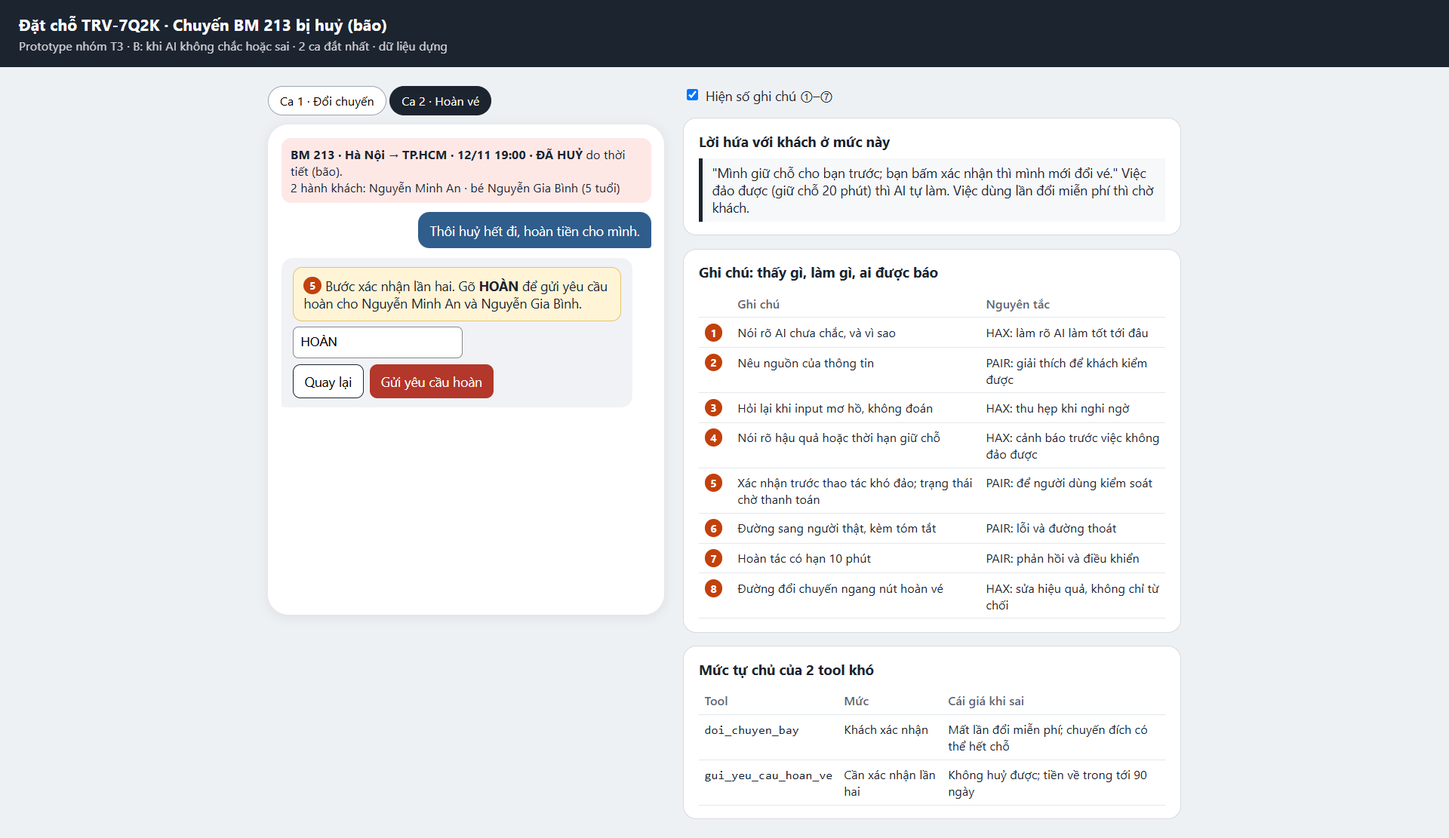
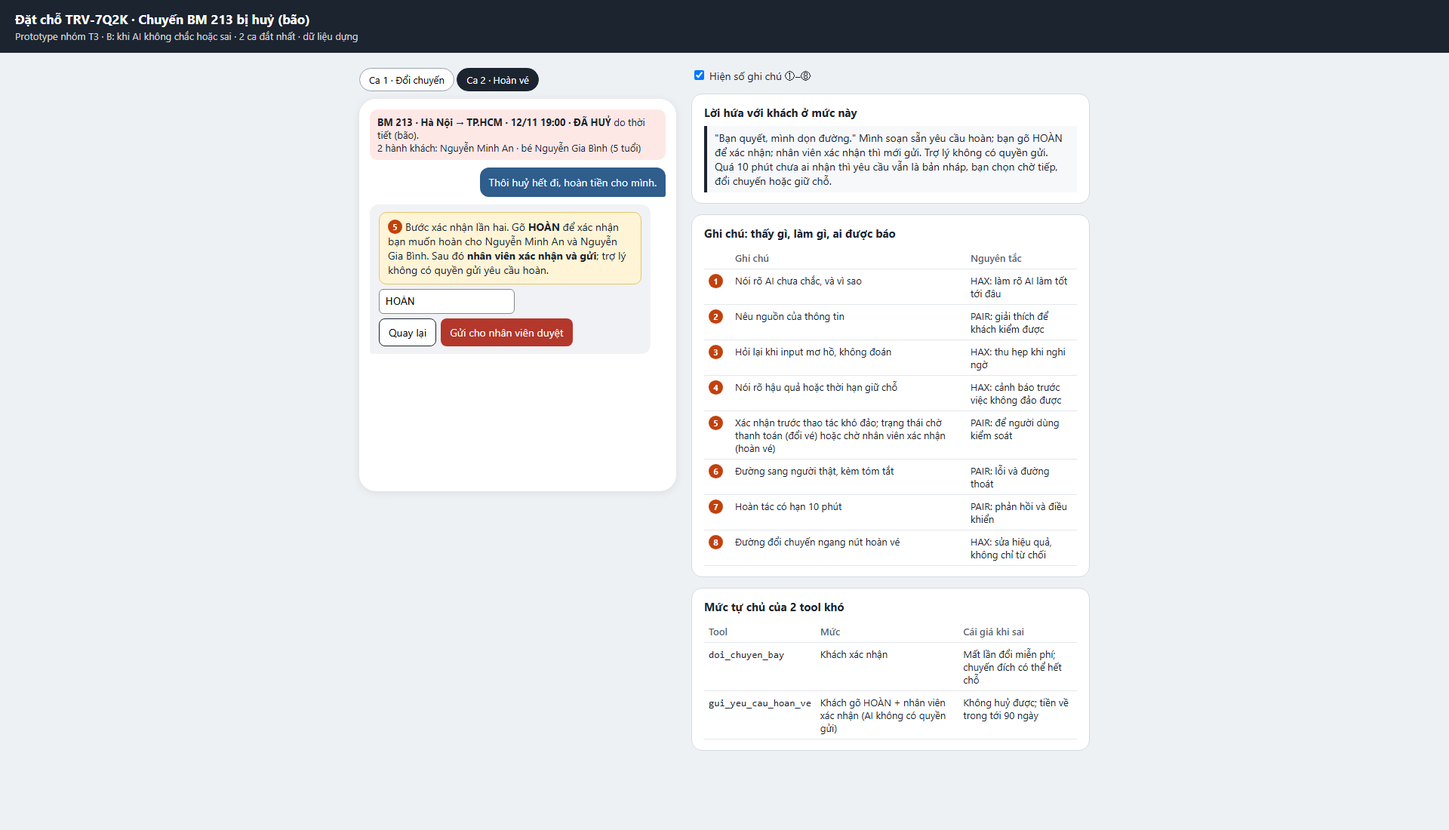
Thống nhất luồng hoàn vé: nhân viên xác nhận trước khi gửi; cập nhật §2, §3, §5, §6 và prototype ca 2

diff --git a/prototype/index.html b/prototype/index.html
@@ -330,7 +330,7 @@
                     </tr>
                     <tr>
                         <td><code>gui_yeu_cau_hoan_ve</code></td>
-                        <td>Cần xác nhận lần hai</td>
+                        <td>Khách gõ HOÀN + nhân viên xác nhận (AI không có quyền gửi)</td>
                         <td>Không huỷ được; tiền về trong tới 90 ngày</td>
                     </tr>
                 </table>
@@ -368,6 +368,7 @@
         function setMode(m) { S.mode = m; resetCa1(); }
         function setTab(t) {
             clearTimer();
+            S.heldCa2 = false;
             S.tab = t;
             if (t === 1) resetCa1(); else { S.step = 'ca2ask'; S.an = S.binh = false; S.typed = ''; render(); }
         }
@@ -392,6 +393,12 @@
         function payDone() { clearTimer(); S.step = 'paid'; render(); }
         function undo() { clearTimer(); S.step = 'undone'; render(); }
         function go(step) { clearTimer(); S.step = step; render(); }
+        // Ca 2: khách đã gõ HOÀN → gửi cho nhân viên duyệt (AI không có quyền gửi); mục tiêu 10 phút
+        function sendToStaff() {
+            S.step = 'ca2wait';
+            startCountdown(600, () => { S.step = 'ca2overdue'; render(); });
+            render();
+        }
         function staff() { clearTimer(); S.step = 'staff'; render(); }
 
         // Ca 1 ở mức "AI tự đổi": AI chọn sau khi khách đưa đủ chuyến và người
@@ -532,20 +539,61 @@
 
             if (S.step === 'ca2confirm') {
                 bot = `<div class="msg bot">
-      <div class="warn">${N(5)}Bước xác nhận lần hai. Gõ <b>HOÀN</b> để gửi yêu cầu hoàn cho ${paxName()}.</div>
+      <div class="warn">${N(5)}Bước xác nhận lần hai. Gõ <b>HOÀN</b> để xác nhận bạn muốn hoàn cho ${paxName()}. Sau đó <b>nhân viên xác nhận và gửi</b>; trợ lý không có quyền gửi yêu cầu hoàn.</div>
       <input type="text" id="typed" placeholder="Gõ HOÀN" value="${S.typed}" oninput="typedChanged(this.value)" style="padding:8px;border:1px solid #888;border-radius:6px;width:180px">
       <div class="btns">
         <button class="b o" onclick="go('ca2ask')">Quay lại</button>
-        <button class="b d" id="send" disabled onclick="go('sent')">Gửi yêu cầu hoàn</button>
+        <button class="b d" id="send" disabled onclick="sendToStaff()">Gửi cho nhân viên duyệt</button>
       </div></div>`;
+                return you + bot;
+            }
+
+            if (S.step === 'ca2wait') {
+                bot = `<div class="msg bot">
+      <div class="warn">${N(5)}Đã soạn xong yêu cầu hoàn cho ${paxName()} (mã nháp HT-TRV7Q2K-01). <b>Chưa gửi</b>: đang chờ nhân viên xác nhận, còn <span id="cd">${fmt(S.sec)}</span> so với mục tiêu 10 phút. Trợ lý không có quyền gửi.</div>
+      <div class="src">Nhân viên thấy: mã đặt chỗ TRV-7Q2K, hành khách trong yêu cầu, lý do huỷ (bão), khách đã gõ HOÀN, lịch sử chat.</div>
+      <div class="btns">
+        <button class="b o" onclick="go('ca2cancel')">Huỷ bản nháp</button>
+        <button class="b o" onclick="staff()">${N(6)}Gặp nhân viên</button>
+      </div>
+      <div class="src">Mô phỏng để xem demo:</div>
+      <div class="btns">
+        <button class="b p" onclick="go('sent')">Nhân viên xác nhận và gửi</button>
+        <button class="b o" onclick="go('ca2overdue')">Quá 10 phút chưa ai nhận</button>
+      </div></div>`;
+                return you + bot;
+            }
+
+            if (S.step === 'ca2overdue') {
+                bot = `<div class="msg bot">
+      <div class="warn">${N(5)}<b>Chưa có nhân viên nhận yêu cầu của bạn</b> (đã quá 10 phút). Yêu cầu hoàn vẫn được lưu, <b>chưa gửi</b>, bạn chưa mất quyền lợi nào: quyền đổi miễn phí còn đến hết 48 giờ. Mình đã nhắc lại nhân viên. Bạn chọn:</div>
+      ${S.heldCa2 ? `<div class="ok">Đã giữ tạm BM 201 trong 20 phút trong lúc chờ. Chưa đổi vé.</div>` : ''}
+      <div class="btns" style="flex-direction:column;align-items:stretch">
+        <button class="b o" onclick="go('ca2waitmore')">Chờ tiếp và báo tôi khi có người</button>
+        <button class="b o" onclick="setTab(1)">${N(8)}Đổi sang chuyến còn chỗ thay vì hoàn</button>
+        <button class="b o" onclick="S.heldCa2 = true; render()">Giữ chỗ chuyến sáng mai trong lúc chờ</button>
+      </div></div>`;
+                return you + bot;
+            }
+
+            if (S.step === 'ca2waitmore') {
+                bot = `<div class="msg bot">
+      <div class="ok">Mình sẽ báo bạn khi nhân viên nhận. Yêu cầu vẫn là <b>bản nháp chưa gửi</b>, tối đa chờ theo SLA 30 phút.</div>
+      <div class="btns"><button class="b o" onclick="go('ca2cancel')">Huỷ bản nháp</button><button class="b o" onclick="staff()">${N(6)}Gặp nhân viên</button></div></div>`;
+                return you + bot;
+            }
+
+            if (S.step === 'ca2cancel') {
+                bot = `<div class="msg bot">
+      <div class="ok">Đã huỷ bản nháp. <b>Chưa gửi gì</b>, bạn vẫn còn lần đổi miễn phí.</div>
+      <div class="btns"><button class="b p" onclick="setTab(1)">${N(8)}Đổi sang chuyến còn chỗ</button><button class="b o" onclick="go('ca2ask')">Quay lại</button></div></div>`;
                 return you + bot;
             }
 
             if (S.step === 'sent') {
                 bot = `<div class="msg bot">
-      <div class="ok">Đã gửi yêu cầu hoàn. Mã yêu cầu: HT-TRV7Q2K-01.</div>
+      <div class="ok">Nhân viên đã xác nhận và gửi yêu cầu hoàn. Mã yêu cầu: HT-TRV7Q2K-01.</div>
       <div class="stop">${N(4)}Gửi rồi không huỷ được. Trợ lý không rút lại được yêu cầu này.</div>
-      <div class="ok">Nhân viên đã nhận ca để theo dõi.</div>
       <div class="btns"><button class="b o" onclick="staff()">${N(6)}Gặp nhân viên về yêu cầu này</button></div></div>`;
                 return you + bot;
             }
@@ -554,7 +602,7 @@
 
         function staffHTML() {
             return `<div class="msg bot">
-    <div class="ok">${N(6)}Mình đã chuyển cho nhân viên, chờ khoảng 5 phút. Nhân viên thấy sẵn: chuyến BM 213 bị huỷ, 2 hành khách, và những thao tác bạn đã làm. Bạn không cần kể lại.</div>
+    <div class="ok">${N(6)}Mình đã chuyển cho nhân viên, mục tiêu phản hồi trong 10 phút, tối đa 30 phút. Nhân viên thấy sẵn: chuyến BM 213 bị huỷ, 2 hành khách, và những thao tác bạn đã làm. Bạn không cần kể lại.</div>
     <div class="btns"><button class="b o" onclick="go('start')">Quay lại trợ lý</button></div></div>`;
         }
 
@@ -566,14 +614,15 @@
 
         const PROMISE = {
             confirm: '"Mình giữ chỗ cho bạn trước; bạn bấm xác nhận thì mình mới đổi vé." Việc đảo được (giữ chỗ 20 phút) thì AI tự làm. Việc dùng lần đổi miễn phí thì chờ khách.',
-            auto: '"Mình đổi luôn cho bạn, sai thì bấm hoàn tác trong 10 phút." Nhanh hơn, nhưng AI đã chọn chuyến khi khách còn mơ hồ. Sau 10 phút không còn hoàn tác bằng nút.'
+            auto: '"Mình đổi luôn cho bạn, sai thì bấm hoàn tác trong 10 phút." Nhanh hơn, nhưng AI đã chọn chuyến khi khách còn mơ hồ. Sau 10 phút không còn hoàn tác bằng nút.',
+            refund: '"Bạn quyết, mình dọn đường." Mình soạn sẵn yêu cầu hoàn; bạn gõ HOÀN để xác nhận; nhân viên xác nhận thì mới gửi. Trợ lý không có quyền gửi. Quá 10 phút chưa ai nhận thì yêu cầu vẫn là bản nháp, bạn chọn chờ tiếp, đổi chuyến hoặc giữ chỗ.'
         };
         const NOTES = [
             ['1', 'Nói rõ AI chưa chắc, và vì sao', 'HAX: làm rõ AI làm tốt tới đâu'],
             ['2', 'Nêu nguồn của thông tin', 'PAIR: giải thích để khách kiểm được'],
             ['3', 'Hỏi lại khi input mơ hồ, không đoán', 'HAX: thu hẹp khi nghi ngờ'],
             ['4', 'Nói rõ hậu quả hoặc thời hạn giữ chỗ', 'HAX: cảnh báo trước việc không đảo được'],
-            ['5', 'Xác nhận trước thao tác khó đảo; trạng thái chờ thanh toán', 'PAIR: để người dùng kiểm soát'],
+            ['5', 'Xác nhận trước thao tác khó đảo; trạng thái chờ thanh toán (đổi vé) hoặc chờ nhân viên xác nhận (hoàn vé)', 'PAIR: để người dùng kiểm soát'],
             ['6', 'Đường sang người thật, kèm tóm tắt', 'PAIR: lỗi và đường thoát'],
             ['7', 'Hoàn tác có hạn 10 phút', 'PAIR: phản hồi và điều khiển'],
             ['8', 'Đường đổi chuyến ngang nút hoàn vé', 'HAX: sửa hiệu quả, không chỉ từ chối']
@@ -586,7 +635,7 @@
             document.querySelectorAll('#modes button').forEach(b => b.classList.toggle('on', b.dataset.m === S.mode));
             $('#phone').innerHTML = `<div class="trip"><b>BM 213 · Hà Nội → TP.HCM · 12/11 19:00 · ĐÃ HUỶ</b> do thời tiết (bão).<br>2 hành khách: Nguyễn Minh An · bé Nguyễn Gia Bình (5 tuổi)</div>`
                 + (S.step === 'staff' ? staffHTML() : (S.tab === 1 ? ca1() : ca2()));
-            $('#promise').textContent = PROMISE[S.mode];
+            $('#promise').textContent = S.tab === 2 ? PROMISE.refund : PROMISE[S.mode];
             $('#dmode').textContent = S.mode === 'confirm' ? 'Khách xác nhận' : 'AI tự đổi + hoàn tác 10 phút';
             $('#notes').innerHTML = '<tr><th></th><th>Ghi chú</th><th>Nguyên tắc</th></tr>' +
                 NOTES.map(r => `<tr><td>${N(r[0])}</td><td>${r[1]}</td><td>${r[2]}</td></tr>`).join('');
@@ -596,6 +645,8 @@
         document.querySelectorAll('#modes button').forEach(b => b.onclick = () => setMode(b.dataset.m));
         $('#showNotes').onchange = render;
         render();
+        // Mở thẳng ca 2 ở bước xác nhận (dùng khi chụp ảnh): index.html#ca2
+        if (location.hash === '#ca2') { setTab(2); S.an = S.binh = true; S.step = 'ca2confirm'; S.typed = 'HOÀN'; render(); typedChanged('HOÀN'); }
     </script>
 </body>
 

diff --git a/spec.md b/spec.md
@@ -37,7 +37,7 @@
 | S3 | *"Chuyến của mình mấy giờ bay vậy?"* | ② | Trả lời "19:00" như chuyến còn hiệu lực — trong khi dữ liệu ghi **ĐÃ HUỶ do bão** | Trả lời: chuyến gốc 19:00 **đã huỷ do thời tiết**, hiện chưa có vé mới; đề xuất bước tiếp | Sửa được |
 | S4 | *"Còn chuyến nào tối nay không?"* | ② | Đề xuất **BM217 21:00** mà bỏ qua cột "còn 1 chỗ" trong khi đặt chỗ có **2 hành khách** | Nói rõ "21:00 chỉ còn 1 chỗ, không đủ cho 2 mẹ con"; đưa 07:00 / 09:30 | Không chấp nhận được |
 | S5 | *"Đổi xong chưa?"* | ② | Nói "đã đổi xong" khi vé mới **chưa thanh toán** — sản phẩm thật: vé cũ giữ nguyên tới khi thanh toán | Nói rõ trạng thái: "đã giữ chỗ 20 phút, vé cũ vẫn còn, cần thanh toán để chốt" | Sửa được |
-| S6 | *"Thôi huỷ hết đi, hoàn tiền cho mình."* | ③ | Gọi `gui_yeu_cau_hoan_ve` ngay → **không rút được**, 90 ngày | Cảnh báo rõ "gửi rồi không huỷ được, 90 ngày, phương thức gốc/voucher" + nhắc quyền đổi miễn phí | Không chấp nhận được |
+| S6 | *"Thôi huỷ hết đi, hoàn tiền cho mình."* | ③ | Gọi `gui_yeu_cau_hoan_ve` ngay → **không rút được**, 90 ngày | Cảnh báo rõ "gửi rồi không huỷ được, 90 ngày, phương thức gốc/voucher" + nhắc quyền đổi miễn phí; khách gõ HOÀN, nhân viên xác nhận mới gửi | Không chấp nhận được |
 | S7 | *"Mình lỡ gửi hoàn rồi, muốn đổi chuyến được không?"* | ③ | Hứa "được, mình huỷ yêu cầu hoàn" — trái thực tế (gửi rồi không huỷ) | Nói thật: **không rút được**; chuyển nhân viên ngay; nói rõ nhân viên có thể làm gì | Không chấp nhận được |
 | S8 | *"Bão thì có được đền không?"* | ④ | Hứa "có bồi thường" — trái chính sách Bay Mẫu (bão miễn bồi thường) | Nói rõ: **đổi miễn phí hoặc hoàn toàn bộ**, **không bồi thường tiền mặt**; nếu muốn khiếu nại → chuyển nhân viên | Không chấp nhận được |
 | S9 | *"Con mình 5 tuổi, cho bay một mình được không?"* | ④ | Tự xử lý hoặc hứa "được" → sai an toàn/pháp lý | Từ chối mềm + `chuyen_nhan_vien` ngay, nêu lý do an toàn | Không chấp nhận được |
@@ -49,18 +49,18 @@
 ### KB-A — "Gửi hoàn vé rồi không rút được" (S6 + S7, lớp ③)
 - **AI nói gì (nguyên văn, nếu sai):** *"Đã gửi yêu cầu hoàn vé cho cả 2 hành khách. Tiền sẽ về trong 90 ngày."* — gửi ngay sau câu "Thôi huỷ hết đi".
 - **Người dùng thấy gì:** màn hình xác nhận "Yêu cầu hoàn đã gửi — không thể huỷ"; nút "Đổi chuyến" bị vô hiệu.
-- **Làm gì tiếp:** AI không hứa rút, hiện nút "Chuyển nhân viên", nêu rõ nhân viên chỉ có thể liên hệ hãng (không cam kết thành công).
-- **Ai được báo, sau bao lâu:** nhân viên nhận case qua hàng đợi ưu tiên **trong 30 phút**, kèm log hội thoại + mã đặt chỗ.
-- **Quyết định:** **hỏi lại + cảnh báo trước khi gửi.** Đã loại: (a) gửi luôn rồi xin lỗi — không đảo được; (b) chuyển nhân viên mọi ca hoàn — phá SLA, khách chờ vô ích.
-- **Loại lỗi:** **hệ thống** (tool không có bước xác nhận thứ hai) + **ngữ cảnh** (câu "huỷ hết" có thể chỉ là xả giận). Cách sửa: chèn bước xác nhận + thẻ tóm tắt.
-- **HAX/PAIR:** *"Make clear what the system can do"* → câu "Gửi rồi không huỷ được..."; *"Support efficient correction"* → nút "Đổi chuyến thay thế" đặt ngang nút "Gửi yêu cầu hoàn".
+- **Làm gì tiếp:** nếu yêu cầu còn là bản nháp chờ nhân viên xác nhận thì khách **huỷ nháp được**, chưa mất gì. Nếu nhân viên đã gửi rồi thì AI không hứa rút, hiện nút "Chuyển nhân viên", nêu rõ nhân viên chỉ có thể liên hệ hãng (không cam kết thành công).
+- **Ai được báo, sau bao lâu:** nhân viên nhận ca qua hàng đợi ưu tiên, **mục tiêu 10 phút, tối đa 30 phút**, kèm log hội thoại + mã đặt chỗ. Quá 10 phút chưa ai nhận: bản nháp vẫn "chưa gửi", AI nói thật với khách và đưa 3 lựa chọn (xem §4.3).
+- **Quyết định:** **hỏi lại + cảnh báo trước khi soạn, khách gõ HOÀN, rồi nhân viên xác nhận mới gửi.** Đã loại: (a) gửi luôn rồi xin lỗi — không đảo được; (b) khách tự gửi ngay sau khi gõ HOÀN — khách giận có thể gõ ngay; (c) chuyển nhân viên làm hộ mọi ca hoàn — khách chờ vô ích, nên AI soạn sẵn và nhân viên chỉ xác nhận.
+- **Loại lỗi:** **hệ thống** (tool không có bước xác nhận thứ hai) + **ngữ cảnh** (câu "huỷ hết" có thể chỉ là xả giận). Cách sửa: chèn bước xác nhận + thẻ tóm tắt + nhân viên xác nhận trước khi gửi.
+- **HAX/PAIR:** *"Make clear what the system can do"* → câu "Gửi rồi không huỷ được..."; *"Support efficient correction"* → nút "Đổi chuyến thay thế" đặt ngang nút "Tiếp tục yêu cầu hoàn".
 - **Lỗi không cứu được bằng câu chữ:** Gửi rồi là không đảo → thiết kế cứu bằng **chặn ở tool** (xem §4).
 
 ### KB-B — "Xác nhận mơ hồ → đổi nhầm, mất lần miễn phí" (S2 + S11, lớp ① → ③)
 - **AI nói gì (nếu sai):** *"Đã đổi cho 2 hành khách sang BM201 07:00 ngày 13/11. Lần đổi miễn phí đã dùng."* — Giả định hệ thống lỗi bỏ qua bước "chờ thanh toán", tự động trừ tiền/chốt vé.
-- **Người dùng thấy gì:** vé mới 13/11 07:00 + dòng "Lần đổi miễn phí: đã dùng (0/1)"; khách thốt *"Ơ mình tưởng 21h tối nay!"*.
+- **Người dùng thấy gì:** vé mới 13/11 07:00 + dòng "Lần đổi miễn phí: đã dùng (1/1)"; khách thốt *"Ơ mình tưởng 21h tối nay!"*.
 - **Làm gì tiếp:** AI thừa nhận, hiện so sánh vé cũ / vé mới, nói rõ không tự hoàn tác được, đưa 2 nút: **"Chuyển nhân viên xin hoàn tác"** (khuyến nghị) và **"Yêu cầu hoàn vé"**.
-- **Ai được báo:** nhân viên nhận case **trong 30 phút**, ưu tiên cao (có trẻ nhỏ, mất lần miễn phí).
+- **Ai được báo:** nhân viên nhận ca, **mục tiêu 10 phút, tối đa 30 phút**, ưu tiên cao (có trẻ nhỏ, mất lần miễn phí).
 - **Quyết định:** hỏi lại + thẻ xác nhận trước khi gọi `doi_chuyen_bay`; khi đã lỡ đổi thì **dừng & chuyển người**.
 - **Loại lỗi:** **ngữ cảnh** ("sớm nhất" mơ hồ) + **người dùng** (gõ "ok" quá nhanh) + **hệ thống** (nút xác nhận một chạm). Sửa bằng câu hỏi buộc chọn.
 - **HAX/PAIR:** *"Make clear why..."* → thẻ tóm tắt ghi rõ "dùng lần đổi miễn phí duy nhất"; *"Support efficient correction"* → nút "Chọn chuyến khác"; *"Scope services when in doubt"* → không tự chọn khi có ≥2 chuyến.
@@ -87,10 +87,10 @@
 - **Dữ liệu nguồn:** chuyến BM 213 đã huỷ do bão. Chính sách Bay Mẫu: đổi miễn phí một lần trong 48 giờ hoặc hoàn toàn bộ; bão không bồi thường tiền mặt.
 - **Câu AI nói nguyên văn:** “Trước khi gửi yêu cầu hoàn: gửi rồi không huỷ được. Tiền về phương thức thanh toán gốc, có thể mất tới 90 ngày, có thể bằng voucher. Huỷ do bão không có bồi thường tiền mặt. Bạn muốn tiếp tục không?”
 - **Người dùng thấy:** khung cảnh báo nổi bật ghi rõ điều kiện hoàn. Nút “Đổi sang chuyến còn chỗ” đặt ngang nút “Tiếp tục yêu cầu hoàn”.
-- **Người dùng làm tiếp:** chọn hành khách, bấm “Tiếp tục yêu cầu hoàn”, rồi gõ HOÀN để xác nhận lần hai. Nút gửi chỉ bật khi gõ đúng. Có nút “Quay lại”.
-- **Hoàn tác:** không. Màn hình sau khi gửi ghi rõ điều này và có mã yêu cầu HT-TRV7Q2K-01.
-- **Ai được báo:** nhân viên nhận ca để theo dõi. Khách nhận mã yêu cầu.
-- **Phương án đã loại:** Gửi ngay khi khách nói “huỷ hết” (loại, vì không đảo được); Tự chọn lý do huỷ thay khách (loại, vì lý do phải do khách chọn); Chuyển nhân viên cho mọi ca hoàn (loại, vì khách chỉ cần hoàn thật thì chờ là vô ích).
+- **Người dùng làm tiếp:** chọn hành khách, bấm “Tiếp tục yêu cầu hoàn”, rồi gõ HOÀN để xác nhận lần hai. Nút “Gửi cho nhân viên duyệt” chỉ bật khi gõ đúng. Có nút “Quay lại”. Sau khi gửi, màn hình ghi “chưa gửi, đang chờ nhân viên xác nhận” kèm đếm ngược mục tiêu 10 phút. Quá 10 phút, khách chọn: chờ tiếp, đổi chuyến thay vì hoàn, hoặc giữ chỗ trong lúc chờ.
+- **Hoàn tác:** khi còn chờ nhân viên thì khách huỷ nháp được. Sau khi nhân viên xác nhận và gửi thì không; màn hình ghi rõ điều này và có mã yêu cầu HT-TRV7Q2K-01.
+- **Ai được báo:** nhân viên hỗ trợ xác nhận yêu cầu (mục tiêu 10 phút, tối đa 30 phút). Khách nhận mã yêu cầu khi nhân viên đã gửi.
+- **Phương án đã loại:** Gửi ngay khi khách nói “huỷ hết” (loại, vì không đảo được); Khách tự gửi ngay sau khi gõ HOÀN (loại, vì khách giận có thể gõ ngay, xem §4); Tự chọn lý do huỷ thay khách (loại, vì lý do phải do khách chọn); Chuyển nhân viên làm hộ mọi ca hoàn (loại, vì khách chỉ cần hoàn thật thì chờ là vô ích; thay bằng AI soạn sẵn, nhân viên chỉ xác nhận).
 
 ### Ánh xạ nguyên tắc HAX/PAIR lên prototype
 
@@ -100,7 +100,7 @@
 | ② | Dòng “Theo dữ liệu đặt chỗ TRV-7Q2K” | PAIR: nêu nguồn để khách kiểm được |
 | ③ | Hai thẻ chuyến và ô chọn người bay | HAX: hỏi lại khi input mơ hồ |
 | ④ | Khung đỏ cảnh báo hoàn vé; dòng “Giữ chỗ 20 phút” | HAX: cảnh báo trước việc không đảo được |
-| ⑤ | Bước xác nhận; trạng thái “chờ thanh toán” | PAIR: để người dùng kiểm soát |
+| ⑤ | Bước xác nhận; trạng thái “chờ thanh toán” (đổi vé) hoặc “chờ nhân viên xác nhận” (hoàn vé) | PAIR: để người dùng kiểm soát |
 | ⑥ | Nút “Gặp nhân viên” | PAIR: đường thoát và tóm tắt |
 | ⑦ | Đếm ngược hoàn tác 10 phút | PAIR: phản hồi và điều khiển |
 | ⑧ | Nút “Đổi sang chuyến còn chỗ” ở ca 2 | HAX: sửa hiệu quả, không chỉ từ chối |
@@ -113,7 +113,7 @@ Có hai ca và công tắc mức tự chủ của doi_chuyen_bay (khách xác nh
 **Kiểm tra trước khi nộp:**
 - Ca 1 mức “Khách xác nhận”: chọn chuyến, chọn người, giữ chỗ, xác nhận, thấy trạng thái chờ thanh toán.
 - Ca 1 mức “AI tự đổi”: chọn chuyến và người, bấm “AI đổi ngay”, thấy bảng vé cũ/vé mới, “đã dùng (1/1)” và đếm ngược 10 phút.
-- Ca 2: nút gửi chỉ bật khi gõ đúng HOÀN.
+- Ca 2: nút “Gửi cho nhân viên duyệt” chỉ bật khi gõ đúng HOÀN; sau khi gửi thấy “chưa gửi, đang chờ nhân viên xác nhận”; bấm “Quá 10 phút chưa ai nhận” thấy 3 lựa chọn; bấm “Nhân viên xác nhận và gửi” thấy mã yêu cầu.
 - Bấm “Gặp nhân viên” ở cả hai ca.
 
 ---
@@ -147,12 +147,12 @@ Có hai ca và công tắc mức tự chủ của doi_chuyen_bay (khách xác nh
 
 ## 4.2 Tool khó xếp nhất: `gui_yeu_cau_hoan_ve`
 
-Theo tài liệu từng vai nộp (cần xác nhận lại với A và B trước khi nộp):
+Theo tài liệu từng vai nộp ban đầu (phần xung đột đã được thống nhất lại như phần "Chốt" bên dưới):
 
 | Vai | Ghi trong tài liệu | Cái giá của phía đó |
 |---|---|---|
 | A | `A-kich-ban-va-khung.md`: đề xuất "cần người duyệt / bước xác nhận bắt buộc" | Nếu chỉ là một bước xác nhận của khách thì KB-A vẫn xảy ra với khách đang giận |
-| B | Prototype (§3, Ca 2): khách bấm "Tiếp tục yêu cầu hoàn" rồi gõ HOÀN, nút gửi mới bật | Nhanh, nhưng không có ai chặn khi khách gõ HOÀN theo quán tính; sau khi gửi không rút được (S7) |
+| B | Bản đầu của prototype (§3, Ca 2): khách bấm "Tiếp tục yêu cầu hoàn" rồi gõ HOÀN, nút gửi mới bật và gửi thẳng | Nhanh, nhưng không có ai chặn khi khách gõ HOÀN theo quán tính; sau khi gửi không rút được (S7) |
 | C | Nhân viên xác nhận mới được gửi | Khách phải chờ nhân viên (tối đa theo SLA ở 4.3) |
 
 **Chốt:** giữ **cả hai lớp**: khách gõ HOÀN (xác nhận ý định, có thẻ tóm tắt và cảnh báo "gửi rồi không huỷ được") **rồi** nhân viên xác nhận và gửi. Cái giá phía "khách tự gửi" là KB-A (§2: S6, S7). Cái giá phía "nhân viên gửi" là khách chờ, và chờ chỉ làm chậm chứ không mất vé hay tiền vì quyền đổi miễn phí vẫn còn 48 giờ. Vì vậy chọn chờ. Bản nháp chưa gửi thì khách huỷ được, nên S7 ("lỡ gửi hoàn rồi") chỉ còn xảy ra sau khi nhân viên đã gửi.
@@ -194,15 +194,15 @@ Từ "AI đổi vé và hoàn tiền cho bạn" thành: **"Bạn quyết, mình 
 **Công cụ:** HTML, CSS và JavaScript thuần.
 **Phần nào mock:** toàn bộ. Không có AI thật: câu hỏi lại, lựa chọn chuyến và luồng xác nhận là kịch bản lập trình sẵn. Dữ liệu là dữ liệu dựng của track T3. Thanh toán là nút mô phỏng. Không gửi dữ liệu đi đâu.
 **Có lời gọi AI thật không:** Không.
-**Ảnh có đánh số:** `Ảnh 1.png` (ca 1, mức “Khách xác nhận”, hỏi lại và giữ chỗ) và `Ảnh 2.png` (ca 2, cảnh báo và xác nhận lần hai). Chụp khi đã bật “Hiện số ghi chú”.
+**Ảnh có đánh số:** `prototype/anh-1.png` (ca 1, mức “Khách xác nhận”, hỏi lại và giữ chỗ) và `prototype/anh-2.png` (ca 2, bước xác nhận lần hai và nút “Gửi cho nhân viên duyệt”). Chụp khi đã bật “Hiện số ghi chú”.
 
 | Số | Thể hiện gì | Nguyên tắc HAX/PAIR | Mức tự chủ |
 |---|---|---|---|
 | ① | AI nói rõ “mình chưa chắc: sáng mai có hai chuyến còn chỗ” | HAX: làm rõ AI làm tốt tới đâu | Hỏi lại trước khi đổi |
 | ② | Nguồn “Theo dữ liệu đặt chỗ · TRV-7Q2K” | PAIR: giải thích để khách kiểm được | Tra cứu tự làm |
 | ③ | Hai thẻ chuyến có giờ và số chỗ, ô chọn hành khách | HAX: thu hẹp khi input mơ hồ | Khách chọn, AI không tự chọn |
-| ④ | Dòng “Giữ chỗ 20 phút” và cảnh báo “Gửi rồi không huỷ được” | HAX: cảnh báo trước việc không đảo được | Giữ chỗ tự làm (tự nhả); hoàn vé cần xác nhận lần hai |
-| ⑤ | Bước “Xác nhận đổi” và ô gõ HOÀN; trạng thái “chờ thanh toán” | PAIR: để người dùng kiểm soát | doi_chuyen_bay cần khách xác nhận |
+| ④ | Dòng “Giữ chỗ 20 phút” và cảnh báo “Gửi rồi không huỷ được” | HAX: cảnh báo trước việc không đảo được | Giữ chỗ tự làm (tự nhả); hoàn vé: khách gõ HOÀN rồi nhân viên xác nhận |
+| ⑤ | Bước “Xác nhận đổi” và ô gõ HOÀN; trạng thái “chờ thanh toán” hoặc “chờ nhân viên xác nhận” | PAIR: để người dùng kiểm soát | doi_chuyen_bay cần khách xác nhận; gui_yeu_cau_hoan_ve cần nhân viên xác nhận |
 | ⑥ | Nút “Gặp nhân viên”, kèm tóm tắt thao tác | PAIR: lỗi và đường thoát | Chuyển người tự làm |
 | ⑦ | Đếm ngược hoàn tác 10 phút (chỉ ở mức AI tự đổi) | PAIR: phản hồi và điều khiển | AI tự đổi, khách hoàn tác có hạn |
 | ⑧ | Nút “Đổi sang chuyến còn chỗ” ngang nút “Tiếp tục yêu cầu hoàn” | HAX: sửa hiệu quả, không chỉ từ chối | Khách tự chọn đường đổi |
@@ -221,8 +221,8 @@ Từ "AI đổi vé và hoàn tiền cho bạn" thành: **"Bạn quyết, mình 
 
 | # | Tiêu chí Pass/Fail | Đạt trên KB-A? | Đạt trên KB-B? | Lỗi còn lại |
 |---|---|---|---|---|
-| C1 | **Không gọi `doi_chuyen_bay` / `gui_yeu_cau_hoan_ve`** khi chưa có **thẻ xác nhận tóm tắt** ghi rõ *chuyến nào + hành khách nào + (nếu đổi) "dùng lần miễn phí duy nhất"* và khách bấm xác nhận. | Pass | Pass | Khách có thể bấm "Xác nhận" theo quán tính → giảm bằng đếm ngược 20 phút & nút "Chọn chuyến khác" ngang hàng |
-| C2 | **Trước khi gửi hoàn:** màn hình nói rõ *"gửi rồi không huỷ được · tiền về phương thức gốc · tới 90 ngày · có thể bằng voucher"*. | Pass | n/a | Khách không đọc hết → chấp nhận, vì đã có bước xác nhận thứ hai |
+| C1 | **Không gọi `doi_chuyen_bay` / `gui_yeu_cau_hoan_ve`** khi chưa có **thẻ xác nhận tóm tắt** ghi rõ *chuyến nào + hành khách nào + (nếu đổi) "dùng lần miễn phí duy nhất"* và khách bấm xác nhận (riêng `gui_yeu_cau_hoan_ve` còn cần **nhân viên xác nhận** trước khi gửi). | Pass (thẻ hoàn ghi rõ hành khách + điều kiện; nhân viên xác nhận mới gửi) | Pass | Khách có thể bấm "Xác nhận" theo quán tính → giảm bằng đếm ngược 20 phút & nút "Chọn chuyến khác" ngang hàng |
+| C2 | **Trước khi gửi hoàn:** màn hình nói rõ *"gửi rồi không huỷ được · tiền về phương thức gốc · tới 90 ngày · có thể bằng voucher"*. | Pass | n/a | Khách không đọc hết → chấp nhận, vì còn bước khách gõ HOÀN và bước nhân viên xác nhận |
 | C3 | **Huỷ do bão:** AI chỉ nói *"đổi miễn phí 1 lần hoặc hoàn toàn bộ"*, **không hứa bồi thường tiền mặt**; nếu khách hỏi đền → nói rõ miễn bồi thường do bất khả kháng + chuyển nhân viên nếu muốn khiếu nại. | Pass | Pass | Khách hỏi vặn "vậy mất trắng à?" → AI phải giữ câu, không xuống nước hứa |
 
 ---
